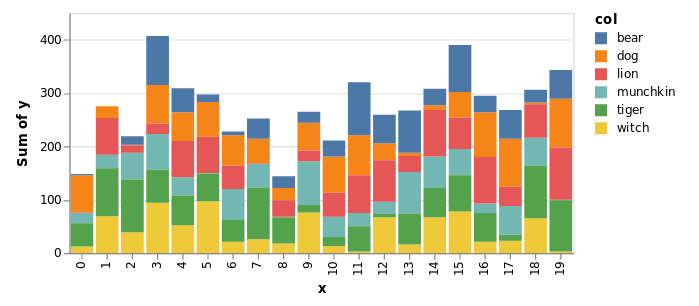
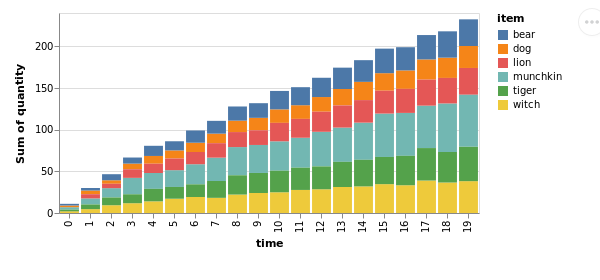
update documentation

diff --git a/README.md b/README.md
@@ -34,7 +34,7 @@ Oz itself provides:
 * a REPL API for for pushing vega and vega-lite data to a browser window over websockets
 * client side `vega` and `vega-lite` Reagent components
 * an API for composing vega & vega-lite together in the context of html as hiccup for document and dashboard generation
-* plot publishing/sharing features via GitHub gists and the IDL's live [vega editor](http://vega.github.io/editor)
+* plot/document publishing/sharing features via GitHub gists, the IDL's live [vega editor](http://vega.github.io/editor), and <ozviz.io>.
 
 It also has the following eventual goals:
 
@@ -47,21 +47,25 @@ It also has the following eventual goals:
 
 Some other things in the Vega/Vega-Lite ecosystem you may want to look at
 
-* [Hanami](https://github.com/jsa-aerial/hanami) - Really cool library from [Jon Anthony](https://github.com/jsa-aerial) with high level constructors for Vega/Vega-Lite data
 * [Vega Editor](https://vega.github.io/editor) - Wonderful editing tool (as mentioned above) for editing and sharing Vega/Vega-Lite data visualizations.
+* [Ozviz](http://ozviz.io) - Sister project to Oz: A Vega Editor like tool for sharing (and soon editing) hiccup
 * [Voyager](https://github.com/vega/voyager) - Also from the IDL, Voyager is a wonderful Tableau like (drag and drop) tool for exploring data and constructing exportable Vega/Vega-Lite visualizations.
-* [Vega Examples](https://vega.github.io/examples) - A 
-* [Vega home](https://vega.github.io/) - More great stuff from the IDL folks
+* [Vega Examples](https://vega.github.io/examples) - A robust showcase of visualizations from which to draw inspiration and code.
+* [Vega home](https://vega.github.io/) - More great stuff from the IDL folks.
+* [Hanami](https://github.com/jsa-aerial/hanami) - Cool library from [Jon Anthony](https://github.com/jsa-aerial) with high level constructors for Vega/Vega-Lite data
 
 
 ## REPL Usage
 
-Add oz to your leiningen project dependencies
+If you clone this repository and open up the `dev/user.clj` file, you can follow along by executing the
+commented out code block at the end of the file.
+
+Assuming you're starting from scratch, first add oz to your leiningen project dependencies
 
 [![Clojars Project](https://img.shields.io/clojars/v/metasoarous/oz.svg)](https://clojars.org/metasoarous/oz)
 
 
-To get things going, require oz and start the plot server as follows:
+Next, require oz and start the plot server as follows:
 
 ``` clojure
 (require '[oz.core :as oz])
@@ -70,13 +74,17 @@ To get things going, require oz and start the plot server as follows:
 ```
 
 This will fire up a browser window with a websocket connection for funneling view data back and forth.
+If you forget to call this function, it will be called for you when you create your first plot, but be aware
+that it will delay the first display, and it's possible you'll have to resend the plot on a slower
+computer.
 
 Next we'll define a function for generating some dummy data
 
 ```clojure
-(defn group-data [& names]
-  (apply concat (for [n names]
-  (map-indexed (fn [i x] {:x i :y x :col n}) (take 20 (repeatedly #(rand-int 100)))))))
+(defn play-data [& names]
+  (for [n names
+        i (range 20)]
+    {:time i :item n :quantity (+ (Math/pow (* i (count n)) 0.8) (rand-int (count n)))}))
 ```
 
 
@@ -88,15 +96,15 @@ It will display a single vega or vega-lite plot in any connected browser windows
 For example, a simple line plot:
 
 ``` clojure
-  (def line-plot
-    {:data {:values (group-data "monkey" "slipper" "broom")}
-     :encoding {:x {:field "x"}
-                :y {:field "y"}
-                :color {:field "col" :type "nominal"}}
-     :mark "line"})
+(def line-plot
+  {:data {:values (play-data "monkey" "slipper" "broom")}
+   :encoding {:x {:field "time"}
+              :y {:field "quantity"}
+              :color {:field "item" :type "nominal"}}
+   :mark "line"})
 
-  ;; Render the plot to the 
-  (oz/v! line-plot)
+;; Render the plot
+(oz/v! line-plot)
 ```
 
 Should render something like:
@@ -108,14 +116,14 @@ Another example:
 
 ```clojure
 (def stacked-bar
-  {:data {:values (group-data "munchkin" "witch" "dog" "lion" "tiger" "bear")}
+  {:data {:values (play-data "munchkin" "witch" "dog" "lion" "tiger" "bear")}
    :mark "bar"
-   :encoding {:x {:field "x"
+   :encoding {:x {:field "time"
                   :type "ordinal"}
               :y {:aggregate "sum"
-                  :field "y"
+                  :field "quantity"
                   :type "quantitative"}
-              :color {:field "col"
+              :color {:field "item"
                       :type "nominal"}}})
 
 (oz/v! stacked-bar)
@@ -135,24 +143,24 @@ For vega instead of vega-lite, you can also specify `:mode :vega` to `oz/v!`:
 
 (require '[cheshire.core :as json])
 
-(def vega-data (json/parse-string (slurp (clojure.java.io/resource "example-cars-plot.vega.json")))) 
+(def vega-data (json/parse-string (slurp (clojure.java.io/resource "countour-lines.vega.json")))) 
 (oz/v! vega-data :mode :vega)
 ```
 
 This should render like:
 
-![cars plot](doc/car-points.png)
+![contours plot](doc/contours.png)
 
 
 ### `oz/view!`
 
 This is a more powerful function which will let you compose vega and vega-lite views together with other html, using hiccup notation.
-The idea is to provide some quick and dirty utilities for building composite view dashboards, and for the construction of documents.
+The idea is to provide some quick and dirty utilities for building composite view dashboards and scientific documents.
 
 For demonstration we'll combine the three plots above into one:
 
 ```clojure
-(oz/view! [:div
+(def spec [:div
            [:h1 "Look ye and behold"]
            [:p "A couple of small charts"]
            [:div {:style {:display "flex" :flex-direction "row"}}
@@ -162,6 +170,7 @@ For demonstration we'll combine the three plots above into one:
            [:vega-lite stacked-bar]
            [:h2 "If ever, oh ever a viz there was, the vizard of oz is one because, because, because..."]
            [:p "Because of the wonderful things it does"]])
+(oz/view! spec)
 ```
 
 Note that the vega and vega-lite specs are described in the output vega as using the `:vega` and `:vega-lite` keys.
@@ -179,20 +188,59 @@ So for example, you can do `[:vega-lite stacked-bar {:width 100}]` to override t
 
 ## Sharing features
 
-Looking to share your cool plots with someone?
-We've got you covered.
-
-```clojure
-user=> (oz/publish-plot! line-plot)
-Gist url: https://api.github.com/gists/a887765dadc594ac3140fc3501e6dbd2
-Vega editor url: https://vega.github.io/editor/#/gist/vega-lite/gists/a887765dadc594ac3140fc3501e6dbd2
-```
+Looking to share your cool plots or hiccup documents with someone?
+We've got you covered via the `publish!` utility function.
 
 This will post the plot content to a GitHub Gist, and use the gist uuid to create a [vega-editor](http://vega.github.io/editor) link which prints to the screen.
 When you visit the vega-editor link, it will load the gist in question and place the content in the editor.
 It renders the plot, and updates in real time as you tinker with the code, making it a wonderful yet simple tool for sharing and prototyping.
 
-[![vega-editor](doc/export.png)](https://vega.github.io/editor/#/gist/vega-lite/gists/a887765dadc594ac3140fc3501e6dbd2)
+```clojure
+user=> (oz/publish! line-plot)
+Gist html url: https://gist.github.com/f838b26ee0a502a0c5e5536b6d86d787
+Raw gist url: https://api.github.com/gists/f838b26ee0a502a0c5e5536b6d86d787
+Vega editor url: https://vega.github.io/editor/#/gist/vega-lite/metasoarous/f838b26ee0a502a0c5e5536b6d86d787/83e74ec3938f80ab5f0d47be0c7ee67dde355175/vega-viz.json
+```
+
+Following the Vega editor url with take you here (click on image to follow):
+
+[![vega-editor](doc/export-small.png)](https://vega.github.io/editor/#/gist/vega-lite/metasoarous/f838b26ee0a502a0c5e5536b6d86d787/83e74ec3938f80ab5f0d47be0c7ee67dde355175/vega-viz.json)
+
+As mentioned above, we can also share our hiccup documents/dashboards.
+Since Vega Editor knows nothing about hiccup, we've created <ozviz.io> as a tool for loading these documents.
+
+```
+user=> (oz/publish! spec)
+Gist url: https://gist.github.com/e6313e288f94cd1ec039e5ac4ebf894f
+Raw gist url: https://api.github.com/gists/e6313e288f94cd1ec039e5ac4ebf894f
+Ozviz url: http://ozviz.io/#/gist/e6313e288f94cd1ec039e5ac4ebf894f
+```
+
+### Authentication
+
+In order to use the `oz/publish!` function, you must provide authentication.
+
+The easiest way is to pass `:auth "username:password"` to the `oz/publish!` function.
+However, this can be problematic in that you don't want these credentials accidentally strewn throughout your code or `./.lein-repl-history`.
+
+To address this issue, `oz/publish!` will by default try to read authorization parameters from a file at `~/.oz/github-creds.edn`.
+The contents should be a map of authorization arguments, as passed to the [tentacles api](https://github.com/clj-commons/tentacles).
+While you can use `{:auth "username:password"}` in this file, as above, it's far better from a security standpoint to use OAuth tokens.
+
+* First, [generate a new token](https://github.com/settings/tokens/new) (Settings > Developer settings > Personal access tokens):
+  * Enter a description like "Oz api token"
+  * Select the "[ ] **gist**" scope checkbox, to grant gisting permissions for this token
+  * Click "Generate token" to finish
+* Copy the token and paste place in your `~/.oz/github-creds.edn` file as `{:token "xxxxxxxxxxxxxx"}`
+
+When you're finished, it's a good idea to run `chmod 600 ~/.oz/github-creds.edn` so that only your user can read the credential file.
+
+And that's it!
+Your calls to `(oz/publish! spec)` should now be authenticated.
+
+Sadly, GitHub used to allow the posting of anonymous gists, without the requirement of authentication, which saved us from all this hassle.
+However, they've since [deprecated this](https://blog.github.com/2018-02-18-deprecation-notice-removing-anonymous-gist-creation/).
+If you like, you can [submit a comment](https://github.com/contact) asking that GitHub consider enabling auto-expiring anonymous gists, which would avoid this setup.
 
 
 ## As client side reagent components
@@ -208,6 +256,8 @@ If you like, you may also use the Reagent components found at `oz.core` to rende
 At present, these components do not take a second argument.
 The merging of spec maps described above applies prior to application of this reagent component.
 
+Eventually we'll be adding options for hooking into the signal dataflow graphs within these visualizations so that interactions in a Vega/Vega-Lite visualization can be used to inform other Reagent components in your app.
+
 
 ## Local development
 
@@ -218,7 +268,6 @@ For development environment, `dev/utils.clj` has
 ```
 
 Then do yer thing.
-
 
 
 ## Debugging & updating Vega/Vega-Lite versions
@@ -241,16 +290,6 @@ More to the point though, if you find yourself unable to do something you expect
 
 For more context and information, see the cljsjs [creating pacakages](https://github.com/cljsjs/packages/wiki/Creating-Packages), [updating packages](https://github.com/cljsjs/packages/wiki/Updating-packages) and [creating externs](https://github.com/cljsjs/packages/wiki/Creating-Externs) documentation.
 For convenience, I've automated much of this work in the script at `./bin/update-cljsjs.sh`.
-
-
-
-## Building and deploying oz
-
-This is mostly for my convenience....
-
-```
-#forthcoming...
-```
 
 
 ## License

diff --git a/CHANGELOG.md b/CHANGELOG.md
@@ -2,6 +2,19 @@
 # CHANGELOG
 
 
+## 1.4.0
+
+* deprecate `publish-plot!` in favor of more general `publish!`, which sends to http://ozviz.io as appropriate
+* split reagent api from main app namespace
+* update aleph to avoid java 9 issues
+* call start-plot-server! automatically on `v!` or `view!` if it hasn't been already
+* update js libs:
+  * cljsjs/vega -> "4.4.0-0"
+  * cljsjs/vega-lite -> "3.0.0-rc10-0"
+  * cljsjs/vega-embed -> "3.26.0-0"
+  * cljsjs/vega-tooltip -> "0.14.0-0"
+
+
 ## 1.3.2
 
 * update js libs:
